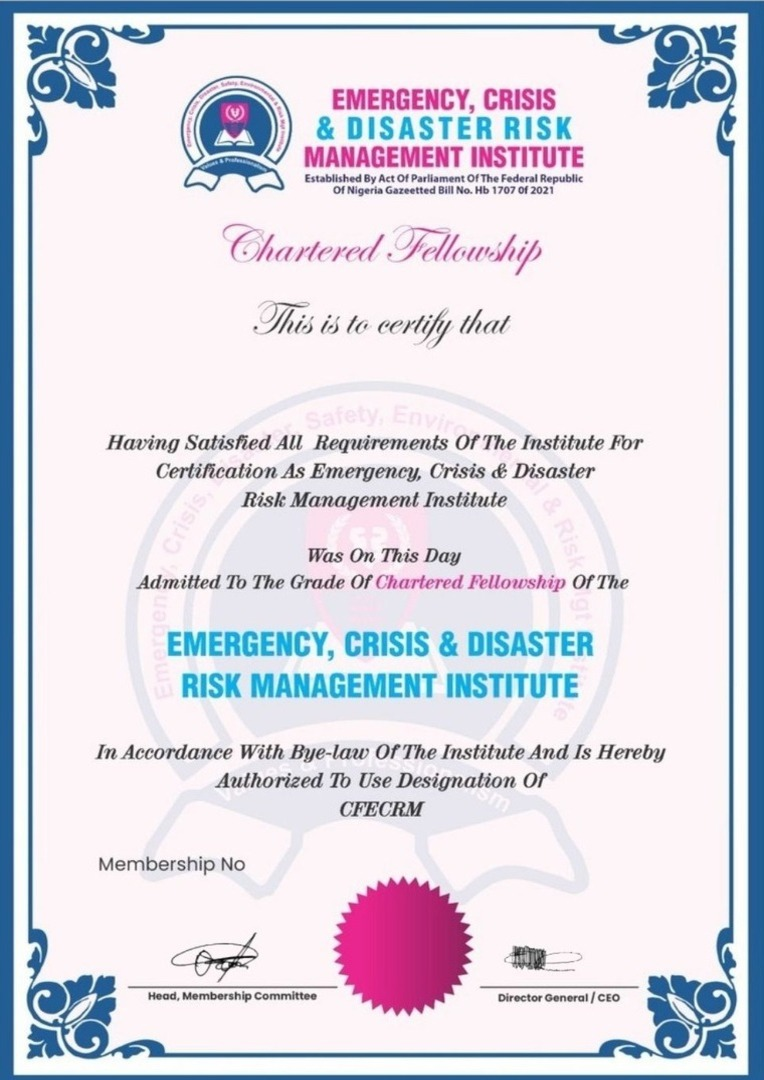
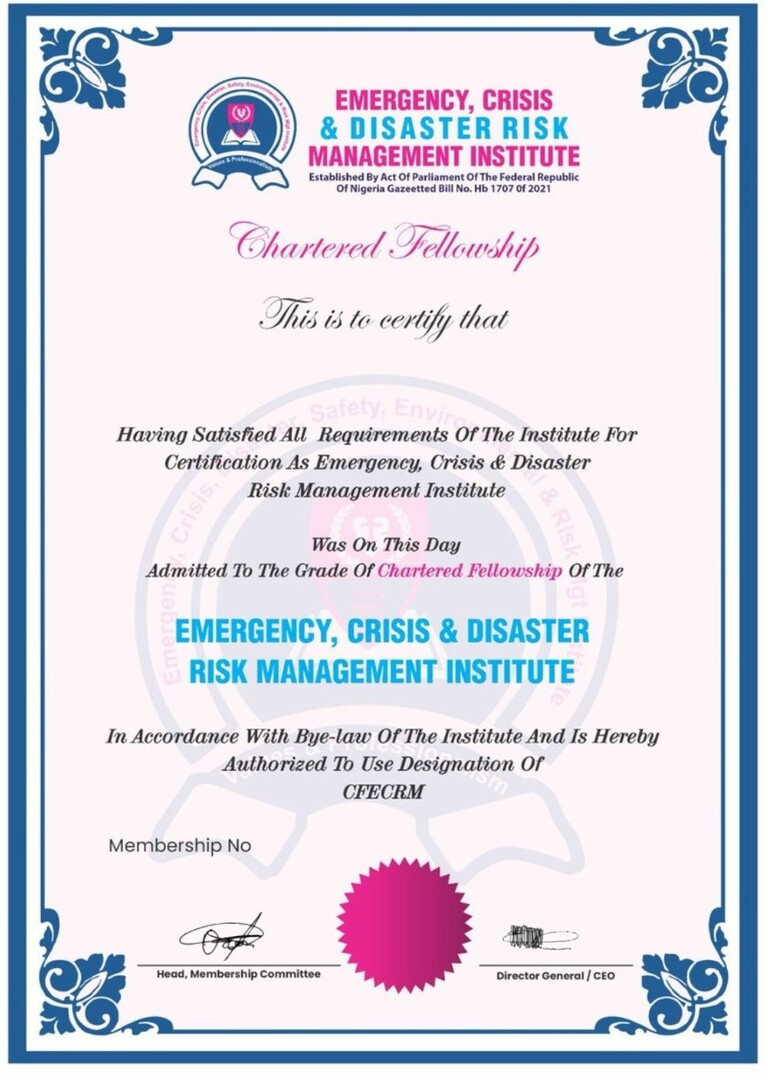
Update Chartered Fellowship date font to bold

diff --git a/app/api/membership/download/[certId]/route.ts b/app/api/membership/download/[certId]/route.ts
@@ -12,7 +12,7 @@ type Layout = {
   page: { w: number; h: number };
   name: { y: number; size: number };
   membershipNo: { x: number; y: number; size: number };
-  date?: { x: number; y: number; size: number };
+  date?: { x: number; y: number; size: number; bold?: boolean };
   qr: { x: number; y: number; w: number; h: number; bg?: string };
 };
 
@@ -59,8 +59,9 @@ const DEFAULT_LAYOUT: Layout = {
 
 const LAYOUTS: Record<string, Partial<Layout>> = {
   "chartered-fellowship.jpeg": {
-    membershipNo: { x: 250, y: 210, size: 16 },
-    date: { x: 470, y: 517, size: 17 },
+    name: { y: 695, size: 36 },
+    membershipNo: { x: 257, y: 228, size: 16 },
+    date: { x: 469, y: 528, size: 17, bold: true },
     qr: { x: 590, y: 170, w: 100, h: 100, bg: "#fbf5f8" },
   },
 
@@ -227,7 +228,7 @@ export async function GET(
       x: layout.date.x,
       y: layout.date.y,
       size: layout.date.size,
-      font,
+      font: layout.date.bold ? bold : font,
     });
   }
 

diff --git a/app/(membership)/membership/apply/page.tsx b/app/(membership)/membership/apply/page.tsx
@@ -19,7 +19,7 @@ const MEMBERSHIP_TYPES: { value: string; label: string }[] = [
   { value: "Professional Fellowship", label: "Professional Fellowship (₦200,000)" },
   { value: "Professional Membership", label: "Professional Membership (₦120,000)" },
   { value: "Honorary Membership", label: "Honorary Membership (Free)" },
-  { value: "Chartered Fellowship", label: "Chartered Fellowship (Free)" },
+  { value: "Chartered Fellowship", label: "Chartered Fellowship (₦200,000)" },
 ];
 
 function isValidEmail(email: string) {
